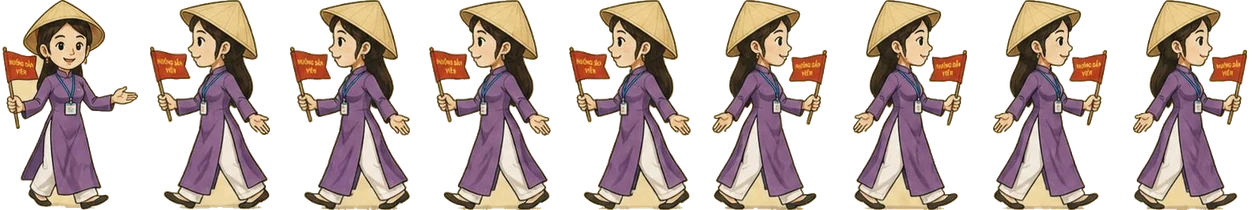
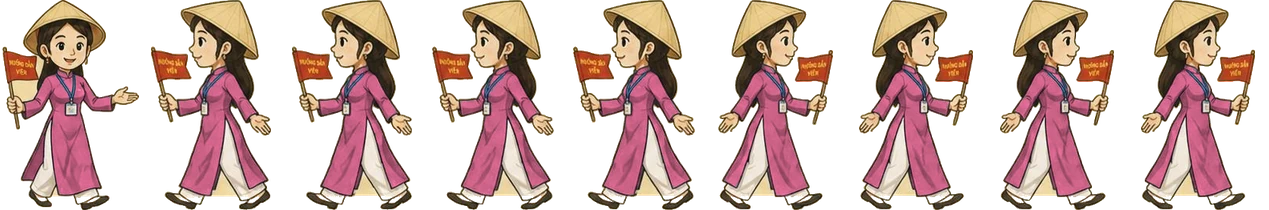
Redraw the girl Local Host as an áo dài tour guide with a four-direction walk cycle
The girl avatar now uses the new tour-guide drawing (purple áo dài, conical
hat, "Hướng dẫn viên" flag and lanyard) from Game Asset/
hoian_local_host_girl_dongho.png. tools/cut_host_girl.py builds a 4×4 sheet
(down, up, left, right × 4 walk frames) like the boy's, so the girl now walks
in four directions instead of mirroring a single side view. It removes the
semi-transparent paper halo left by the background removal without touching
opaque pixels, fills the holes it punched in cheeks and noses, and recolours
the dress for the indigo, gold and red outfits.

The engine and sprite previews use the same 4×4 layout for both avatars. The
default outfit reads "Tím hướng dẫn viên / Tour Guide Purple" for the girl,
and the walking NPC guide changes to a pink áo dài so she no longer looks like
the player. recolor() moves to cutlib, and character sheets and scripts get a
new version query so browsers fetch the new art.

diff --git a/immersion-town/js/game.js b/immersion-town/js/game.js
@@ -11,7 +11,7 @@
 
   const AVATARS = {
     boy: { name: ['Local Host nam', 'Local Host · boy'], note: ['Đồng phục học sinh, đi được 4 hướng', 'School uniform, walks in 4 directions'] },
-    girl: { name: ['Local Host nữ', 'Local Host · girl'], note: ['Áo dài và nón lá', 'Áo dài and conical hat'] },
+    girl: { name: ['Local Host nữ', 'Local Host · girl'], note: ['Áo dài, nón lá, cờ hướng dẫn viên; đi được 4 hướng', 'Áo dài, conical hat and guide flag; walks in 4 directions'] },
   };
   const MIN_TYPED_WORDS = 5;
   const MIN_SPOKEN_WORDS = 4;
@@ -105,6 +105,8 @@
   const questsDone = () => DATA.quests.filter((q) => (d().quests[q.id] || {}).done).length;
   const bookletCount = () => BOOKLETS.filter((b) => d().collected[b.id]).length;
   const outfitById = (id) => DATA.outfits.find((o) => o.id === id);
+  // Tên trang phục theo nhân vật đang chọn (bộ mặc định của Local Host nữ là áo dài tím hướng dẫn viên)
+  const outfitName = (o) => (d().avatar === 'girl' && o.name_girl ? tx(o, 'name_girl') : tx(o, 'name'));
   const charOf = (id) => DATA.characters[id];
   const voiceOf = (ch) => ({ langs: (ch && ch.voice) || ['en-US', 'en-GB'], pitch: (ch && ch.pitch) || 1 });
   const isDone = (id) => Boolean((d().quests[id] || {}).done);
@@ -165,7 +167,7 @@
   function playerSheet(avatar = d().avatar, outfitId = d().outfit) {
     const o = outfitById(outfitId) || DATA.outfits[0];
     const kind = avatar === 'girl' ? 'girl' : 'boy';
-    return { kind, src: `assets/chars/host_${kind}_${o.color}.webp` };
+    return { kind, src: `assets/chars/host_${kind}_${o.color}.webp?v=20261009` };
   }
 
   function wear(id) {
@@ -185,8 +187,8 @@
       : el('canvas', { class: 'host-canvas', width: 150, height: 216, style: `width:${Math.round(size * 0.7)}px;height:${size}px` });
     const im = new Image();
     im.onload = () => {
-      const cw = kind === 'boy' ? im.width / 4 : kind === 'girl' ? im.width / 3 : im.width;
-      const ch = kind === 'boy' ? im.height / 4 : im.height;
+      const cw = kind === 'single' ? im.width : im.width / 4;   // Local Host nam và nữ: tờ 4 hướng × 4 khung
+      const ch = kind === 'single' ? im.height : im.height / 4;
       const ctx = c.getContext('2d');
       if (faceOnly) ctx.drawImage(im, cw * 0.14, 0, cw * 0.72, cw * 0.72, 0, 0, 120, 120);
       else ctx.drawImage(im, 0, 0, cw, ch, 0, 0, 150, 216);
@@ -952,7 +954,7 @@
       }
       if (addTitle(r.title)) items.push(el('li', {}, `${L('🏅 Danh hiệu mới', '🏅 New title')}: ${r.title}`));
       outfit = unlockOutfit(r.outfit);
-      if (outfit) items.push(el('li', {}, `${L('👘 Trang phục mới', '👘 New outfit')}: ${tx(outfit, 'name')}`));
+      if (outfit) items.push(el('li', {}, `${L('👘 Trang phục mới', '👘 New outfit')}: ${outfitName(outfit)}`));
       if (r.tea) {
         const got = store.addTea(r.tea);
         if (got) items.push(el('li', {}, `☕ +${got} Trà Đá Helper`));
@@ -982,7 +984,7 @@
       el('ul', { class: 'reward-list' }, items),
       next ? el('p', { class: 'muted' }, `${L('Nhiệm vụ tiếp theo', 'Next mission')}: ${next.icon} ${questTitle(next)} (${zoneLabel(next.zone)})`) : null,
       el('div', { class: 'action-bar' },
-        outfit ? el('button', { class: 'btn-action', type: 'button', onclick: () => { wear(outfit.id); toast(`${L('👘 Đang mặc', '👘 Wearing')}: ${tx(outfit, 'name')}`); closeQuest(); } }, `${L('Mặc', 'Wear')} ${tx(outfit, 'name')}`) : null,
+        outfit ? el('button', { class: 'btn-action', type: 'button', onclick: () => { wear(outfit.id); toast(`${L('👘 Đang mặc', '👘 Wearing')}: ${outfitName(outfit)}`); closeQuest(); } }, `${L('Mặc', 'Wear')} ${outfitName(outfit)}`) : null,
         el('button', { class: 'btn-action btn-primary', type: 'button', onclick: () => { closeQuest(); if (allDone) guideToCeremony(); } }, allDone ? L('🌙 Lên Đêm hội ➔', '🌙 Go to the Heritage Night ➔') : L('Đóng', 'Close'))));
   }
 
@@ -1324,8 +1326,8 @@
               if (outfit) save();
               done.replaceChildren(...[
                 el('p', { class: 'notice good' }, L('🎉 Bạn đã nắm vững Booklet này! +1 ☕ Trà Đá Helper', '🎉 You mastered this Booklet! +1 ☕ Trà Đá Helper')),
-                outfit ? el('p', { class: 'notice good' }, `${L('👘 Làm đúng cả 5 Booklet! Trang phục mới', '👘 All 5 Booklets mastered! New outfit')}: ${tx(outfit, 'name')}`) : null,
-                outfit ? el('button', { class: 'btn-action small', type: 'button', onclick: () => { wear(outfit.id); toast(`${L('👘 Đang mặc', '👘 Wearing')}: ${tx(outfit, 'name')}`); } }, `${L('Mặc', 'Wear')} ${tx(outfit, 'name')}`) : null,
+                outfit ? el('p', { class: 'notice good' }, `${L('👘 Làm đúng cả 5 Booklet! Trang phục mới', '👘 All 5 Booklets mastered! New outfit')}: ${outfitName(outfit)}`) : null,
+                outfit ? el('button', { class: 'btn-action small', type: 'button', onclick: () => { wear(outfit.id); toast(`${L('👘 Đang mặc', '👘 Wearing')}: ${outfitName(outfit)}`); } }, `${L('Mặc', 'Wear')} ${outfitName(outfit)}`) : null,
               ].filter(Boolean));
             } else if (correct < b.check.length) {
               done.replaceChildren(el('p', { class: 'notice' }, L('Còn câu sai. Đọc lại quy tắc rồi mở lại Booklet để làm lại nhé.', 'Some answers are wrong. Read the rule again, then reopen the Booklet to retry.')));
@@ -1539,7 +1541,7 @@
         items.push(el('li', {}, `⭐ +${r.xp || 0} Cultural Host XP`));
         if (addTitle(r.title)) items.push(el('li', {}, `${L('🏅 Danh hiệu mới', '🏅 New title')}: ${r.title}`));
         outfit = unlockOutfit(r.outfit);
-        if (outfit) items.push(el('li', {}, `${L('👘 Trang phục mới', '👘 New outfit')}: ${tx(outfit, 'name')}`));
+        if (outfit) items.push(el('li', {}, `${L('👘 Trang phục mới', '👘 New outfit')}: ${outfitName(outfit)}`));
       } else {
         d().xp += 20;
         items.push(el('li', {}, L('⭐ +20 XP (thắng lại)', '⭐ +20 XP (rematch win)')));
@@ -1562,7 +1564,7 @@
           el('ul', { class: 'reward-list' }, items))),
       win ? null : el('p', { class: 'muted' }, L('Mẹo: ôn Sổ từ hoặc đọc lại Booklet rồi quay lại khiêu chiến.', 'Tip: review your Word Book or reread a Booklet, then try again.')),
       el('div', { class: 'action-bar' },
-        outfit ? el('button', { class: 'btn-action', type: 'button', onclick: () => { wear(outfit.id); toast(`${L('👘 Đang mặc', '👘 Wearing')}: ${tx(outfit, 'name')}`); } }, `${L('Mặc', 'Wear')} ${tx(outfit, 'name')}`) : null,
+        outfit ? el('button', { class: 'btn-action', type: 'button', onclick: () => { wear(outfit.id); toast(`${L('👘 Đang mặc', '👘 Wearing')}: ${outfitName(outfit)}`); } }, `${L('Mặc', 'Wear')} ${outfitName(outfit)}`) : null,
         el('button', { class: 'btn-action', type: 'button', onclick: () => openBossLobby(true) }, L('Về Hội An Quán', 'Back to the Hall')),
         el('button', { class: 'btn-action btn-primary', type: 'button', onclick: () => startBoss(boss) }, win ? L('Đấu lại', 'Rematch') : L('Thử lại ⚔', 'Try again ⚔'))));
   }
@@ -1613,7 +1615,7 @@
         return el('button', {
           class: 'outfit dongho-panel' + (wearing ? ' wearing' : '') + (has ? '' : ' locked'), type: 'button', disabled: !has,
           onclick: () => { wear(o.id); openProfile(); },
-        }, spriteCanvas(sh.src, sh.kind, 110, false), el('b', {}, tx(o, 'name')), el('small', {}, wearing ? L('Đang mặc', 'Wearing') : has ? L('Chạm để mặc', 'Tap to wear') : `🔒 ${tx(o, 'how')}`));
+        }, spriteCanvas(sh.src, sh.kind, 110, false), el('b', {}, outfitName(o)), el('small', {}, wearing ? L('Đang mặc', 'Wearing') : has ? L('Chạm để mặc', 'Tap to wear') : `🔒 ${tx(o, 'how')}`));
       })),
       el('h4', {}, L('📊 Thống kê học tập', '📊 Learning stats')),
       el('div', { class: 'stats' },

diff --git a/immersion-town/js/town.js b/immersion-town/js/town.js
@@ -43,7 +43,7 @@
     cVendor: 'assets/chars/pole_vendor.webp',
     cBoy: 'assets/chars/classmate_boy.webp',
     cGirl: 'assets/chars/classmate_girl.webp',
-    wGuide: 'assets/chars/walk_guide.webp',
+    wGuide: 'assets/chars/walk_guide.webp?v=20261009',
     wTakashi: 'assets/chars/walk_takashi.webp',
     wSophia: 'assets/chars/walk_sophia.webp',
     wJohn: 'assets/chars/walk_john.webp',
@@ -1702,22 +1702,7 @@
       const im = this.playerImg;
       if (!im) return;
       shadow(ctx, p.x, p.y, 22);
-      if (this.playerKind === 'girl') {
-        // Áo dài: 3 khung (trước, nghiêng, sau); đi bộ thì nhún nhẹ
-        const cw = im.width / 3;
-        const col = p.dir === 'down' ? 0 : p.dir === 'up' ? 2 : 1;
-        const bob = p.moving ? Math.abs(Math.sin(p.phase * 1.6)) * 4 : 0;
-        const h = CHAR_H;
-        const w = (cw / im.height) * h;
-        ctx.save();
-        if (p.dir === 'left') {
-          ctx.translate(p.x * 2, 0);
-          ctx.scale(-1, 1);
-        }
-        ctx.drawImage(im, col * cw, 0, cw, im.height, p.x - w / 2, p.y - h - bob, w, h);
-        ctx.restore();
-        return;
-      }
+      // Local Host nam và nữ: tờ 4 hàng (xuống, lên, trái, phải) × 4 khung đi bộ
       const cw = im.width / 4;
       const ch = im.height / 4;
       const row = { down: 0, up: 1, left: 2, right: 3 }[p.dir];

diff --git a/immersion-town/index.html b/immersion-town/index.html
@@ -9,7 +9,7 @@
     <link rel="preconnect" href="https://fonts.googleapis.com">
     <link rel="preconnect" href="https://fonts.gstatic.com" crossorigin>
     <link href="https://fonts.googleapis.com/css2?family=Be+Vietnam+Pro:wght@500;600;700;800&family=Playfair+Display:wght@800;900&display=swap" rel="stylesheet">
-    <link rel="stylesheet" href="css/style.css?v=20261008c">
+    <link rel="stylesheet" href="css/style.css?v=20261009">
 </head>
 
 <body>
@@ -83,9 +83,9 @@
         </div>
     </div>
 
-    <script src="js/core.js?v=20261008c" defer></script>
-    <script src="js/town.js?v=20261008c" defer></script>
-    <script src="js/game.js?v=20261008c" defer></script>
+    <script src="js/core.js?v=20261009" defer></script>
+    <script src="js/town.js?v=20261009" defer></script>
+    <script src="js/game.js?v=20261009" defer></script>
 </body>
 
 </html>

diff --git a/immersion-town/tools/cut_host_girl.py b/immersion-town/tools/cut_host_girl.py
@@ -1,0 +1,79 @@
+"""Dựng tờ sprite Local Host nữ từ Game Asset/hoian_local_host_girl_dongho.png (áo dài tím, nón lá, cờ hướng dẫn viên).
+
+Tờ gốc đã tách nền: 4 hàng FRONT, BACK, LEFT, RIGHT × 4 khung đi bộ (hàng BACK chỉ có 3 khung), cột trái là chữ và
+hoa sen trang trí (bỏ). Kết quả là tờ 4×4 ô 150×216 giống Local Host nam: hàng xuống, lên, trái, phải; cột là khung đi.
+
+  assets/chars/host_girl_white.webp   bộ "Đồng phục Local Host" (outfit white): áo dài tím y như tranh gốc
+  assets/chars/host_girl_indigo.webp  áo dài xanh chàm (outfit indigo)
+  assets/chars/host_girl_gold.webp    áo dài vàng lụa (outfit gold)
+  assets/chars/host_girl_red.webp     áo dài đỏ đèn lồng (outfit red)
+
+Chạy:  python immersion-town/tools/cut_host_girl.py
+"""
+import tempfile
+from pathlib import Path
+
+import numpy as np
+from PIL import Image
+from scipy import ndimage
+
+import cutlib
+
+GA = Path(r'C:\Users\Esther\Documents\NK 26-27\SÁNG TẠO AI\Game Asset')
+OUT = Path(__file__).resolve().parents[1] / 'assets' / 'chars'
+S = Path(tempfile.gettempdir()) / 'immersion-town-deco'
+S.mkdir(exist_ok=True)
+CW, CH = 150, 216
+
+# Khung trên tờ gốc 1082×1082 (x0, y0, x1, y1)
+ROWS = {
+    'down': [(220, 30, 389, 286), (452, 29, 620, 285), (669, 29, 839, 285), (866, 29, 1034, 285)],
+    'up': [(206, 301, 385, 551), (434, 301, 611, 551), (851, 302, 1031, 551), (434, 301, 611, 551)],  # thiếu khung 3: dùng lại khung 2
+    'left': [(217, 565, 352, 796), (442, 566, 577, 796), (655, 565, 795, 796), (858, 566, 998, 796)],
+    'right': [(232, 811, 368, 1054), (455, 811, 591, 1054), (672, 809, 819, 1054), (876, 809, 1019, 1055)],
+}
+# Màu áo dài cho từng bộ trang phục (None = giữ nguyên màu tím của tranh)
+OUTFITS = {'white': None, 'indigo': (36, 54, 104), 'gold': (226, 176, 44), 'red': (196, 50, 42)}
+
+
+def clean(frame):
+    """Quầng giấy sáng quanh nhân vật (sau lưng, quanh lá cờ, giữa tay và thân) là các điểm sáng bán trong suốt nối
+    liền ra nền: xoá chúng, không đụng vào điểm đục nên nón lá, mặt, quần trắng giữ nguyên. Điểm bán trong suốt nằm
+    bên trong nhân vật (lỗ công cụ tách nền làm thủng trên má, mũi) thì lấp lại cho đục."""
+    a = np.asarray(frame).astype(float) / 255
+    rgb, al = a[..., :3], a[..., 3].copy()
+    hue, s, v = cutlib.hsv(rgb)
+    light = (v > 0.72) & (s < 0.45)
+    clear = al < 0.5
+    halo = ndimage.binary_propagation(clear, mask=clear | (light & (al < 0.97))) & ~clear
+    al = np.where(halo, 0, al)
+    holes = (al > 0.05) & (al < 0.97) & ~ndimage.binary_dilation(al < 0.05, iterations=2)
+    al = np.where(holes, 1.0, al)
+    lab, n = ndimage.label(al > 0.3)
+    if n > 1:
+        sizes = ndimage.sum(np.ones_like(lab), lab, index=np.arange(1, n + 1))
+        al = np.where(np.isin(lab, np.arange(1, n + 1)[sizes >= sizes.max() * 0.02]), al, 0)
+    out = Image.fromarray(np.dstack([rgb * 255, al * 255]).round().astype(np.uint8), 'RGBA')
+    return out.crop(out.getbbox())
+
+
+def build():
+    src = Image.open(GA / 'hoian_local_host_girl_dongho.png').convert('RGBA')
+    frames = {d: [clean(src.crop(b)) for b in boxes] for d, boxes in ROWS.items()}
+    scale = min(min((CH - 4) / f.height, (CW - 2) / f.width) for row in frames.values() for f in row)
+    sheets = {}
+    for outfit, target in OUTFITS.items():
+        sheet = Image.new('RGBA', (CW * 4, CH * 4), (0, 0, 0, 0))
+        for r, d in enumerate(('down', 'up', 'left', 'right')):
+            for c, f in enumerate(frames[d]):
+                f = f if target is None else cutlib.recolor(f, target)
+                f = f.resize((round(f.width * scale), round(f.height * scale)), Image.LANCZOS)
+                sheet.alpha_composite(f, (c * CW + (CW - f.width) // 2, r * CH + CH - 2 - f.height))
+        cutlib.save_webp(sheet, OUT / f'host_girl_{outfit}.webp')
+        sheets[outfit] = sheet
+    cutlib.contact_sheet(list(sheets.items()), S / 'host_girl_contact.jpg', cols=2, cw=620, ch=890)
+    return sheets
+
+
+if __name__ == '__main__':
+    print({k: v.size for k, v in build().items()})

diff --git a/immersion-town/tools/cut_frontal.py b/immersion-town/tools/cut_frontal.py
@@ -119,10 +119,12 @@ def fill_under_bridge(im, top=0.58):
 
 
 # Tờ hướng dẫn viên: màu da gần màu giấy, chỉ coi là nền các điểm thật sát màu giấy ở mép khung
-WALK_OPTS = {'guide': {'bg_tol': 0.1, 'pockets': False}}
+WALK_OPTS = {'guide': {'bg_tol': 0.1, 'pockets': False, 'ground': 0.93}}
+# Hướng dẫn viên NPC mặc áo dài hồng, để không trùng áo dài tím của Local Host nữ (nhân vật học sinh điều khiển)
+WALK_COLOR = {'guide': (200, 96, 132)}
 
 
-def walk_strip(sheet, kind, front, left, right, **opts):
+def walk_strip(sheet, kind, front, left, right, color=None, **opts):
     cut = lambda box: cutlib.cutout(sheet, box, kind, keep_largest=True, **opts)  # noqa: E731
     f = cut(front)
     lf = [cut(b) for b in left] if left != 'mirror' else None
@@ -130,6 +132,8 @@ def walk_strip(sheet, kind, front, left, right, **opts):
     lf = lf or [ImageOps.mirror(im) for im in rf]
     rf = rf or [ImageOps.mirror(im) for im in lf]
     frames = [f] + lf + rf
+    if color:
+        frames = [cutlib.recolor(im, color) for im in frames]
     scaled = [im.resize((round(im.width * WALK_H / im.height), WALK_H), Image.LANCZOS) for im in frames]
     cw = max(im.width for im in scaled) + 4
     strip = Image.new('RGBA', (cw * len(scaled), WALK_H), (0, 0, 0, 0))
@@ -156,7 +160,7 @@ if __name__ == '__main__':
     cutlib.contact_sheet(made, S / 'frontal_contact.jpg', cols=7)
     walk = []
     for who, (prefix, kind, front, left, right) in WALK.items():
-        strip, nl, nr = walk_strip(source(prefix), kind, front, left, right, **WALK_OPTS.get(who, {}))
+        strip, nl, nr = walk_strip(source(prefix), kind, front, left, right, WALK_COLOR.get(who), **WALK_OPTS.get(who, {}))
         cutlib.save_webp(strip, CHARS / f'walk_{who}.webp')
         walk.append((who, strip))
         print(f'walk_{who}: {strip.size}, 1 ô nhìn thẳng, {nl} ô sang trái, {nr} ô sang phải')

diff --git a/immersion-town/tools/cutlib.py b/immersion-town/tools/cutlib.py
@@ -207,3 +207,16 @@ def grabcut(sheet, rect, fg_rects=(), bg_below=None):
     alpha = np.clip(ndimage.gaussian_filter(fg.astype(float), 0.7), 0, 1)
     img = Image.fromarray(np.dstack([rgb, (alpha * 255).astype(np.uint8)]), 'RGBA')
     return img.crop(img.getbbox())
+
+
+def recolor(frame, target):
+    """Đổi màu áo dài tím (sắc 265–330°) sang màu target, giữ độ sáng tối của nếp áo và nét mực."""
+    a = np.asarray(frame).astype(float) / 255
+    rgb = a[..., :3]
+    hue, s, v = hsv(rgb)
+    dress = (hue > 265) & (hue < 330) & (s > 0.15) & (v > 0.18) & (a[..., 3] > 0)
+    lum = rgb.mean(axis=2)
+    ratio = lum / np.median(lum[dress])
+    new = np.clip(np.array(target, float)[None, None, :] / 255 * ratio[..., None], 0, 1)
+    rgb = np.where(dress[..., None], new, rgb)
+    return Image.fromarray((np.dstack([rgb, a[..., 3]]) * 255).round().astype(np.uint8), 'RGBA')
